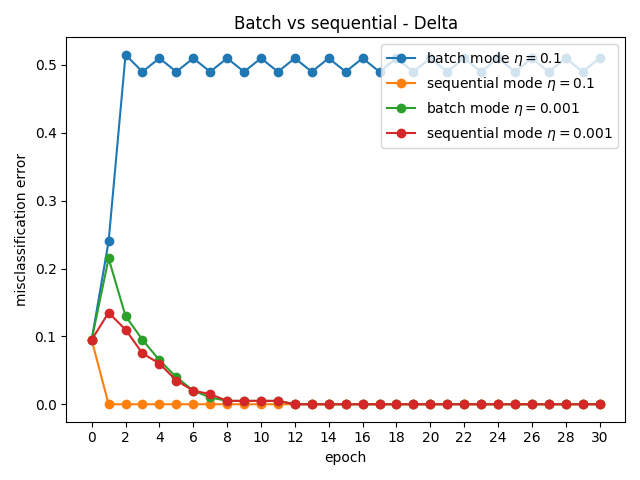
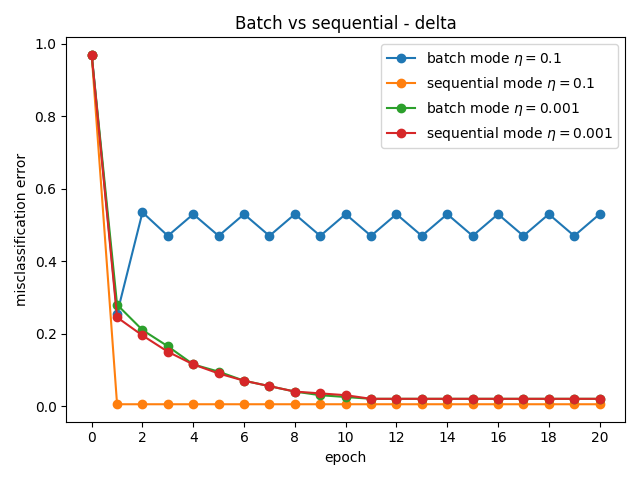
change figures for 3.1.2 question 2

diff --git a/Lab 1/lab1/part1.py b/Lab 1/lab1/part1.py
@@ -152,7 +152,7 @@ def perceptron_vs_delta(patterns, targets, axes_db, axes_lc, xlim, seed, learnin
     axes_lc.set_xticks(np.arange(0, epochs + 1, 2))
 
 
-def batch_vs_sequential(patterns, targets, axes_db, axes_lc, xlim, seed, learning_rates, epochs, n_orders):
+def batch_vs_sequential(patterns, targets, axes_db, axes_lc, xlim, seed, learning_rates, epochs, n_orders, method):
     # generate different orders
     data = []
     for i in range(n_orders):
@@ -161,8 +161,8 @@ def batch_vs_sequential(patterns, targets, axes_db, axes_lc, xlim, seed, learnin
     for learning_rate in learning_rates:
         for i in range(len(data)):
             # train
-            p_batch = train_perceptron(data[i][0], data[i][1], learning_rate, epochs, 'delta', 'batch', seed)
-            p_seq = train_perceptron(data[i][0], data[i][1], learning_rate, epochs, 'delta', 'sequential', seed)
+            p_batch = train_perceptron(data[i][0], data[i][1], learning_rate, epochs, method, 'batch', seed)
+            p_seq = train_perceptron(data[i][0], data[i][1], learning_rate, epochs, method, 'sequential', seed)
 
             # plot
             label_end = r'$\eta={}$'.format(learning_rate)
@@ -172,8 +172,8 @@ def batch_vs_sequential(patterns, targets, axes_db, axes_lc, xlim, seed, learnin
             plot_decision_boundary(p_seq, axes_db, xlim, 'sequential mode ' + label_end)
             plot_learning_curve(p_batch, axes_lc, 'o-', 'batch mode ' + label_end)
             plot_learning_curve(p_seq, axes_lc, 'o-', 'sequential mode ' + label_end)
-    axes_db.set_title('Batch vs sequential - Delta')
-    axes_lc.set_title('Batch vs sequential - Delta')
+    axes_db.set_title('Batch vs sequential - {}'.format(method))
+    axes_lc.set_title('Batch vs sequential - {}'.format(method))
     axes_lc.set_xticks(np.arange(0, epochs + 1, 2))
 
 
@@ -260,7 +260,7 @@ def linearly_non_separable_ml(patterns, targets, axes_db, axes_lc, xlim, seed, l
     axes_db.contour(xx1, xx2, y, levels=(0,))
 
 
-seed = 1
+seed = 100
 
 # prepare figures
 fig_db = plt.figure()
@@ -269,21 +269,24 @@ fig_lc = plt.figure()
 axes_lc = plt.axes()
 
 # generate data
-mu = [(1, .3), (0, -.1)]
-sigma = [.2, .3]
+mu = [(2., .3), (0, -.1)]
+sigma = [.4, .4]
 N = 100
-patterns, targets = generate_data(mu, sigma, N, seed, linearly_sep=False)
+patterns, targets = generate_data(mu, sigma, N, seed, linearly_sep=True)
 patterns, targets = shuffle_data(patterns, targets, seed)
 xlim = [min(patterns[0])-0.1, max(patterns[0])+0.1, min(patterns[1])-0.1, max(patterns[1])+0.1]
 plot_data(axes_db, patterns, targets)
 
 # analysis
 # perceptron_vs_delta(patterns, targets, axes_db, axes_lc, xlim, seed, learning_rates=[0.01, 0.001, 0.0001], epochs=30)
-# batch_vs_sequential(patterns, targets, axes_db, axes_lc, xlim, seed, learning_rates=[0.1], epochs=20, n_orders=1)
+batch_vs_sequential(patterns, targets, axes_db, axes_lc, xlim, seed,
+                    learning_rates=[0.1, 0.001], epochs=20, n_orders=1, method='delta')
+# batch_vs_sequential(patterns, targets, axes_db, axes_lc, xlim, seed,
+#                     learning_rates=[0.1], epochs=20, n_orders=2, method='perceptron')
 # no_bias(patterns, targets, axes_db, axes_lc, xlim, seed, learning_rate=0.001, epochs=20)
 # linearly_non_separable_sl(patterns, targets, axes_db, xlim, seed, learning_rate=0.001, epochs=100, n_runs=10)
-linearly_non_separable_ml(patterns, targets, axes_db, axes_lc, xlim, seed, learning_rate=0.1, epochs=200,
-                          hidden_nodes=3)
+# linearly_non_separable_ml(patterns, targets, axes_db, axes_lc, xlim, seed,
+#                           learning_rate=0.1, epochs=200, hidden_nodes=3)
 
 # show figures
 axes_db.legend(loc='lower right')
